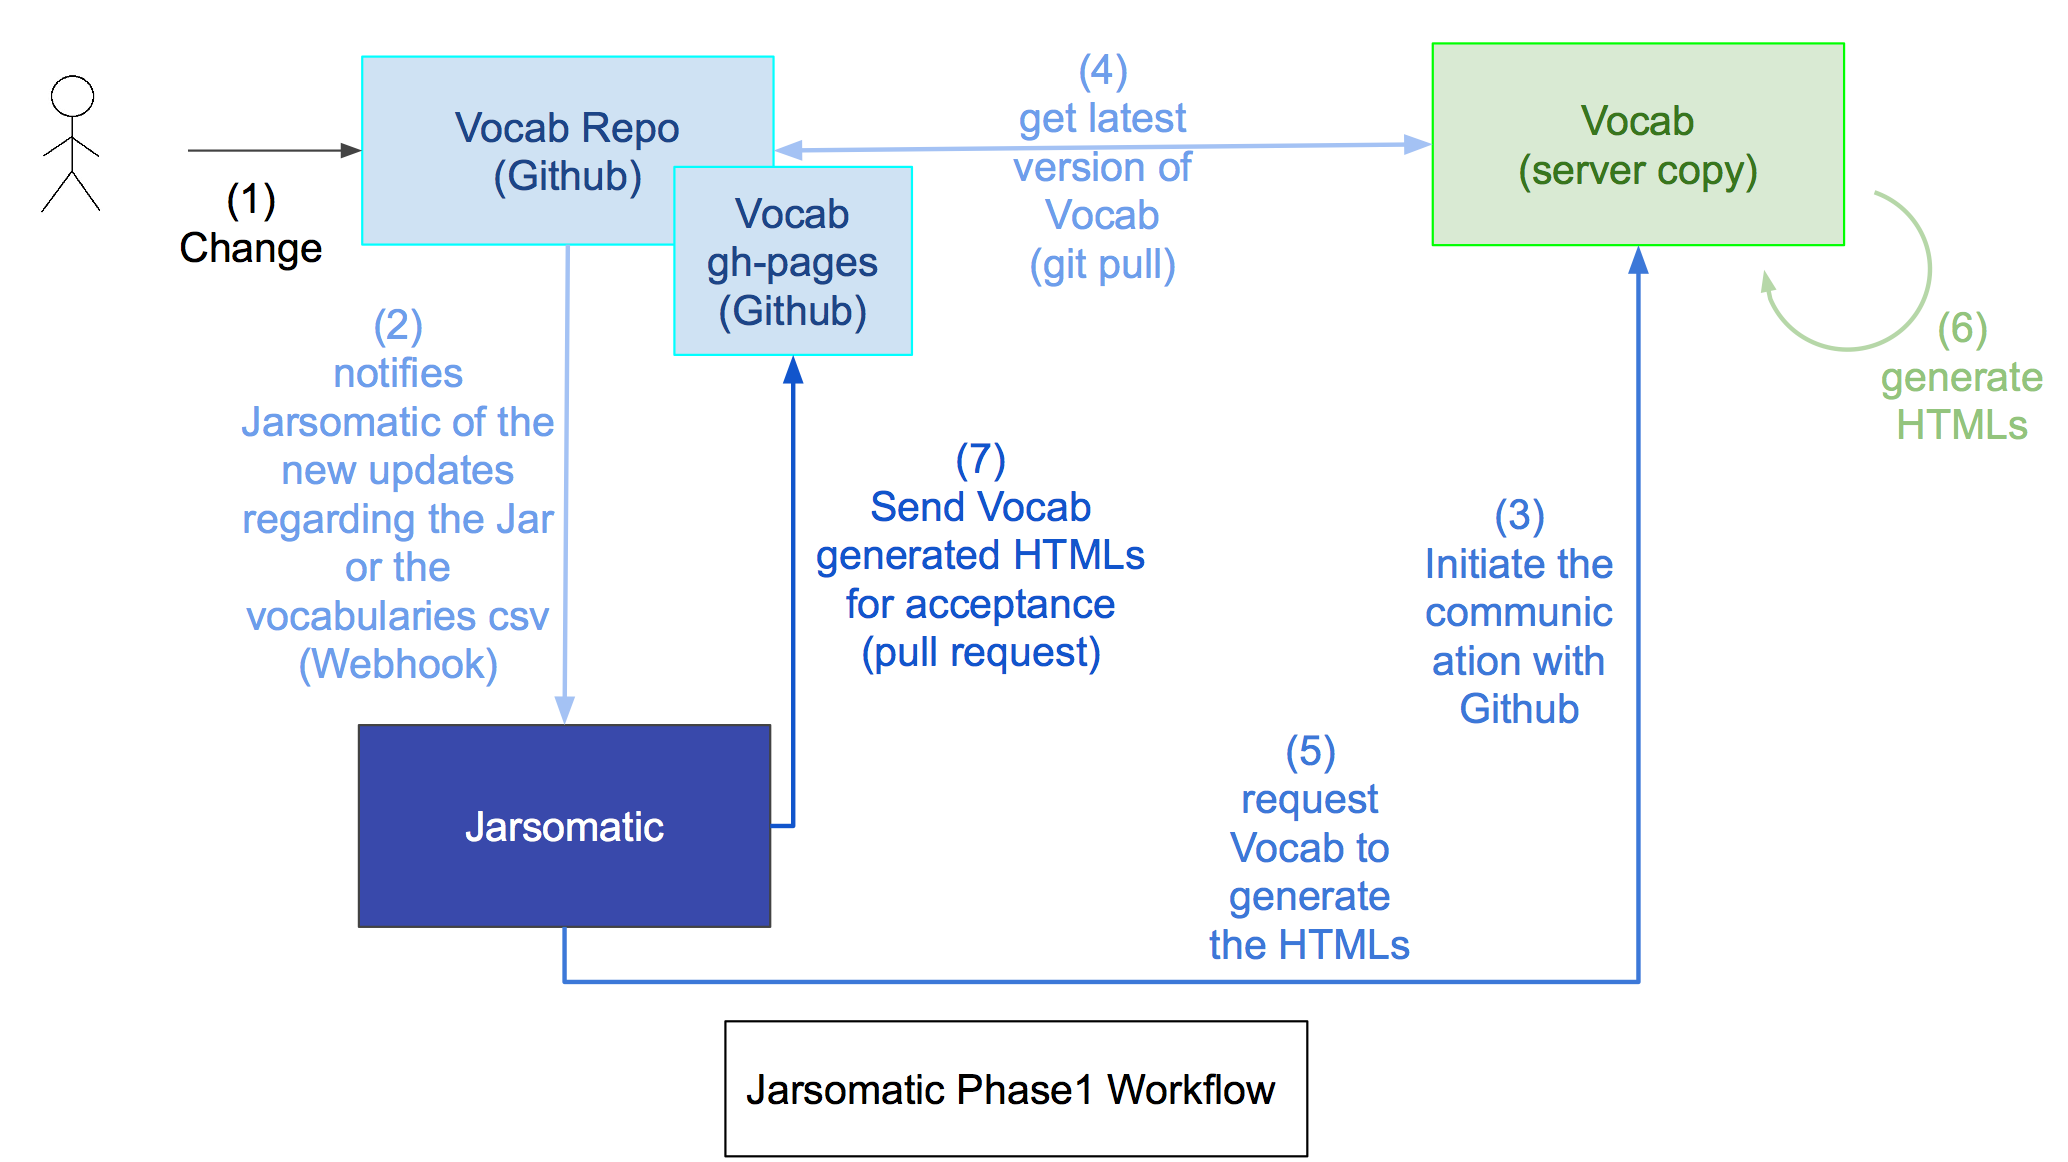
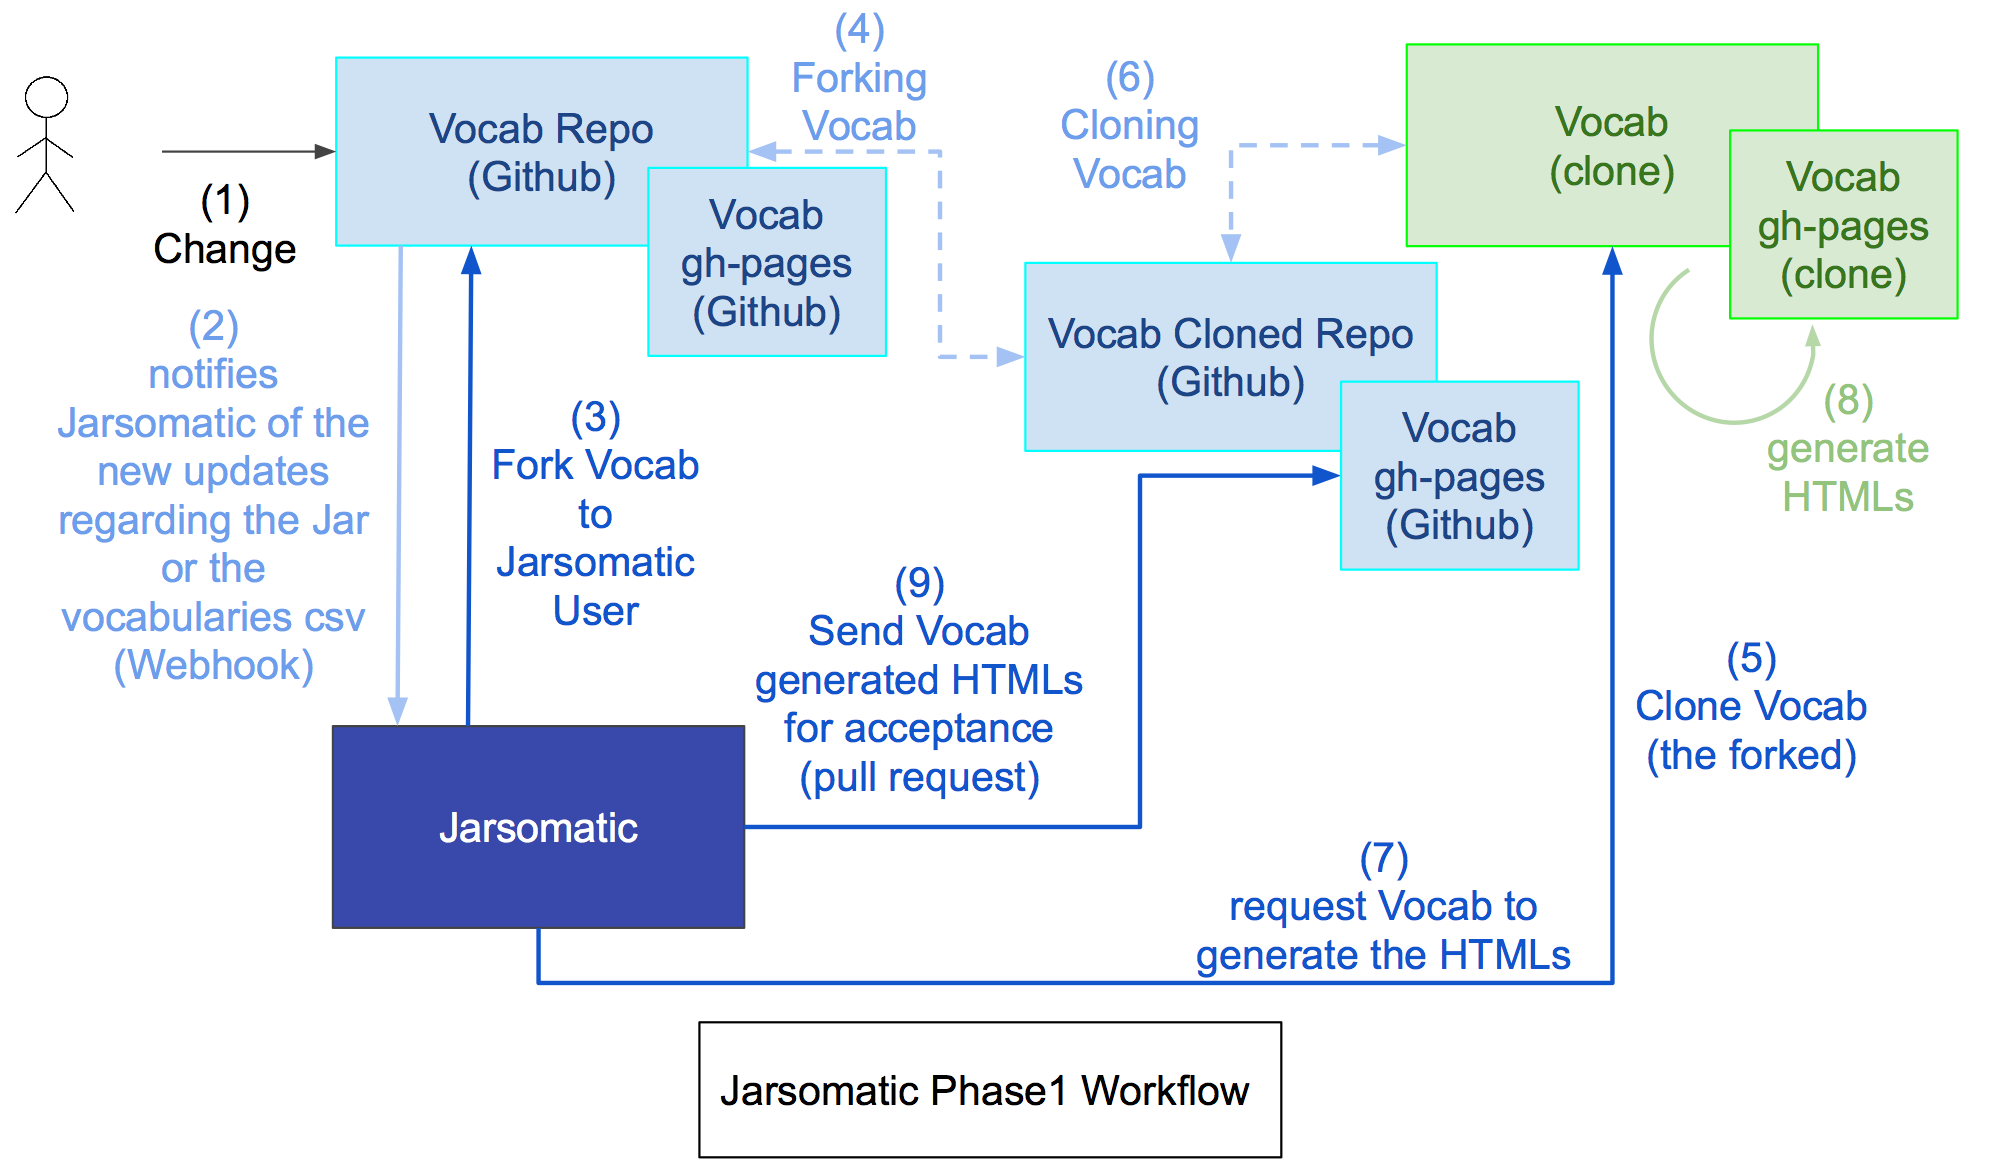
update the Diagram

diff --git a/jarsomatic.py b/jarsomatic.py
@@ -7,6 +7,9 @@ import re
 from subprocess import call
 import os.path
 from config import app_home
+from github import Github
+
+
 
 app = Flask(__name__)
 target_files = ['.jar', '.csv']
@@ -20,11 +23,19 @@ jar_location = config.get('JAR', 'location')
 jar_command = config.get('JAR', 'command')
 target_files_str = config.get('DEFAULT', 'watch')
 target_files = [f.strip().strip("'").strip('"') for f in target_files_str.split(",")]
+github_token = config.get('GITHUB', 'token')
 print "location: "+jar_location
 print "command: "+jar_command
 print "target_files_str: "+target_files_str
+
 for f in target_files:
     print "file: "+f
+
+g = Github(github_token)
+try:
+    g.get_user().login
+except Exception as e:
+    print "Github token is invalid"
 
 
 @app.route("/testp", methods=["GET"])
@@ -71,6 +82,31 @@ def get_changed_files_from_payload(payload):
     for c in commits:
         changed_files += get_changed_files_from_commit(c)
     return changed_files
+
+
+def create_pull_request(repo_str):
+    global g
+    username = g.get_user().login
+    repo = g.get_repo(repo_str)
+    title = 'Jarsomatic'
+    body = 'Jarsomatic pull request'
+    try:
+        repo.create_pull(head=username+':master', base='master', title=title, body=body)
+        return True
+    except Exception as e:
+        print "cannot create pull request, error:  <%s>"%(str(e))
+        return False
+
+
+def fork_repo(repo_str):
+    global g
+    u = g.get_user()
+    repo = g.get_repo(repo_str)
+    try:
+        u.create_fork(repo)
+        return True
+    except Exception as e:
+        print "error forking the repo %s, <%s>"%(repo_str, str(e))
 
 
 def run_if_target(changed_files):
